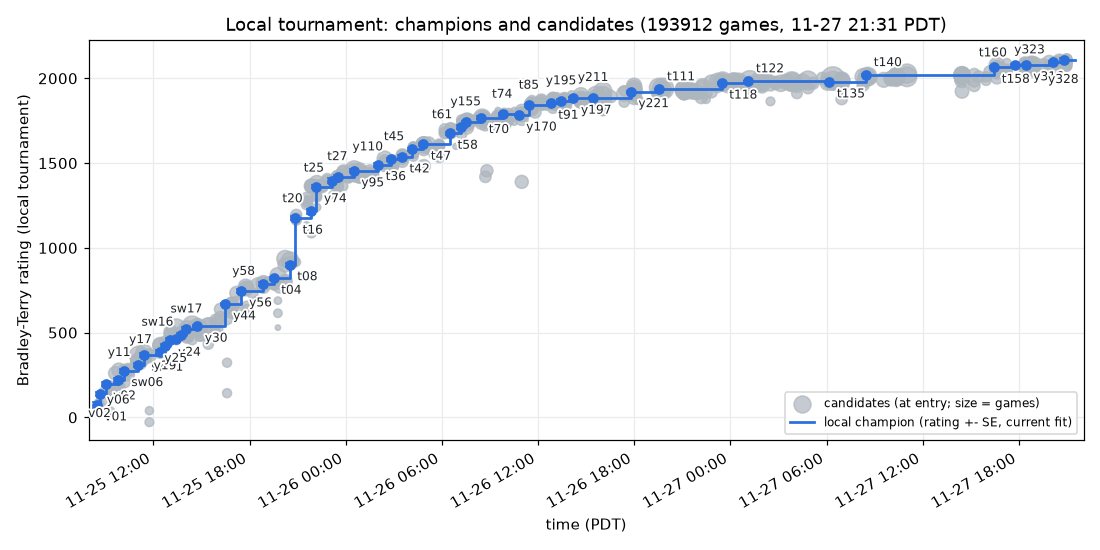
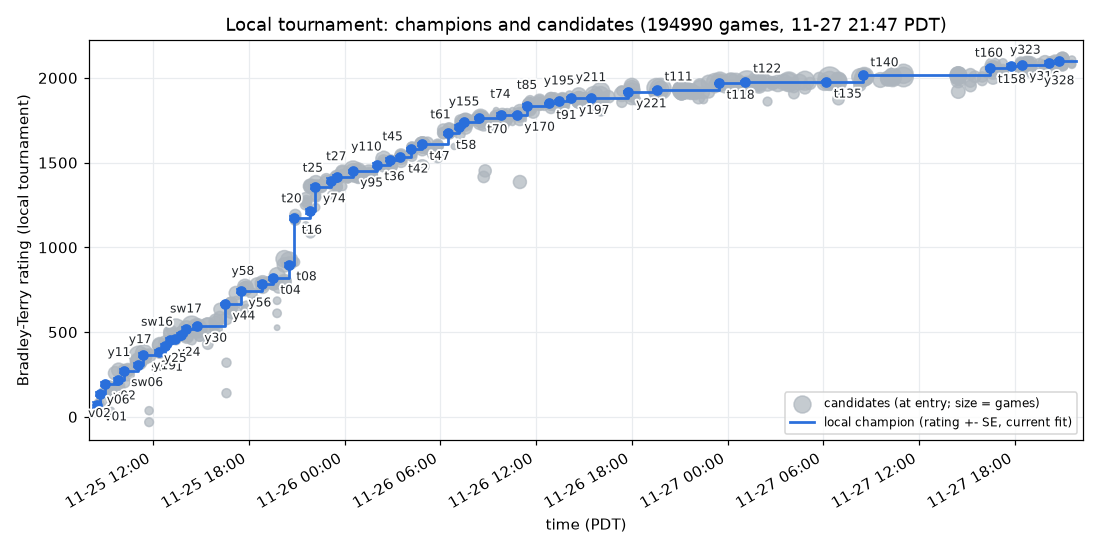
prod: retire y329, y334 (flat after 500+)
Claude-Session: https://claude.ai/code/session_01SzziPSCWtjsjju9cnThDf5

diff --git a/progress/local-elo.md b/progress/local-elo.md
@@ -1,60 +1,60 @@
 # Local tournament Elo
 
-Bradley-Terry ratings of our own bots in the local tournament (`tools/tourney.py`), all 193912 games in one fit as of 2026-11-27 21:33 PDT, so every point is on the same scale; earlier champions are shown at their current rating, and "Gain" is the rating over the champion it replaced. `tools/tourney.py rank` rewrites this table; `tools/tourney.py chart` also redraws the chart.
+Bradley-Terry ratings of our own bots in the local tournament (`tools/tourney.py`), all 194990 games in one fit as of 2026-11-27 21:48 PDT, so every point is on the same scale; earlier champions are shown at their current rating, and "Gain" is the rating over the champion it replaced. `tools/tourney.py rank` rewrites this table; `tools/tourney.py chart` also redraws the chart.
 
 ![local elo](local-elo.png)
 
 | Champion from (PDT) | Bot | Change on base | Submission | Rating +- SE | Gain | Games |
 |---|---|---|---:|---:|---:|---:|
-| 2026-11-25 08:28 | v01 | foundation bot |  | 73 +- 18 |  | 435 |
-| 2026-11-25 08:39 | v02 | nav wall-follow fix + bytecode guards on v01 | #6 | 138 +- 13 | +65 | 801 |
-| 2026-11-25 09:01 | y02 | paint-heavy tower mix + paint towers upgraded first on v02 | #7 | 197 +- 11 | +59 | 1080 |
-| 2026-11-25 09:49 | y06 | 3 opening soldiers instead of 2 on y02 | #35 | 218 +- 13 | +21 | 700 |
-| 2026-11-25 10:09 | sw06 | no moppers before r80; a third of spawns moppers after (field study 1) on y02 | #36 | 276 +- 12 | +79 | 863 |
-| 2026-11-25 11:04 | y11 | mid-game mix 3 moppers per 6 (soldier mopper splasher mopper soldier mopper) on sw06 | #37 | 308 +- 14 | +33 | 655 |
-| 2026-11-25 11:24 | sw11 | at most 1 helper soldier per ruin (more ruins claimed in parallel) on y11 | #38 | 366 +- 11 | +58 | 1159 |
-| 2026-11-25 12:24 | y17 | sw11 + moppers prefer enemies within r2 25 of our towers (sw12) on sw11 | #39 | 385 +- 12 | +18 | 871 |
-| 2026-11-25 12:44 | y19 | sw11 with soldiers joining an occupied ruin only when adjacent (r2<=2) on y17 | #40 | 420 +- 14 | +35 | 678 |
-| 2026-11-25 13:04 | y24 | y17 with mopper defence widened (DEFEND_R2 36 / bonus 80) on y19 | #41 | 454 +- 13 | +35 | 679 |
-| 2026-11-25 13:24 | y25 | y19 (adjacent-only ruin helping) + y17 tower-defending moppers on y24 | #42 | 464 +- 12 | +9 | 898 |
-| 2026-11-25 13:44 | sw16 | y25 + soldier siege: with no ruin and paint>=80 kite a known enemy tower within r2 64 on y25 | #43 | 488 +- 11 | +24 | 976 |
-| 2026-11-25 14:04 | sw17 | y28 (siege from 50 paint r2 100) + splasher siege (towers weigh 40; walk to known tower within r2 100 at paint>=100) on sw16 | #44 | 521 +- 10 | +33 | 1110 |
-| 2026-11-25 14:44 | y30 | y28 with soldier siege from 30 paint within r2 144 (no splasher siege) on sw17 | #45 | 538 +- 7 | +17 | 2377 |
-| 2026-11-25 16:30 | y44 | study 3 tactic 3 (enemy refill policy): return at 50% paint (soldier 100/splasher 100/mopper 40) + end-of-turn top-up from any adjacent ally tower on y30 | #46 | 668 +- 8 | +131 | 2250 |
-| 2026-11-25 17:30 | y56 | study 3 tactic 4 (tower churn): a drained L1 money tower with intact pattern and an ally adjacent disintegrates at >=2000 chips; adjacent robots re-complete it for a fresh 500 paint on y44 | #47 | 746 +- 10 | +77 | 1320 |
-| 2026-11-25 18:50 | y58 | study 3 tactic 2 (early soldiers paint patterns not coverage): exploring soldiers paint no coverage before r50 on y56 | #48 | 787 +- 11 | +42 | 997 |
-| 2026-11-25 19:30 | t04 | t02 (no coverage painting before r80) + t03 (units wait beside drained money towers and repair their pattern so churn fires; study 3 tactics 2 and 4) on y58 | #49 | 820 +- 11 | +33 | 1065 |
-| 2026-11-25 20:30 | t08 | study 4 2.2 (contested ruins): soldiers skip a ruin with enemy paint in its visible 5x5 (bad for 50 rounds) on t04 | #50 | 900 +- 13 | +80 | 775 |
-| 2026-11-25 20:50 | t16 | t12 (t08 + study 4 2.1 spawn freeze 8 rounds in 20 below 1000+cost) + study 4 2.4 money-first: builds money until 8 towers then paint while paint towers < n/5; paint first only if none (all towers known) on t08 | #51 | 1175 +- 12 | +274 | 1213 |
-| 2026-11-25 21:50 | t20 | study 4 2.3: splashers weight enemy towers 30 (was 12) in the splash score on t16 | #52 | 1216 +- 15 | +41 | 587 |
-| 2026-11-25 22:10 | y74 | unit audit (owner prompt #15): splash-grid bug fix (enemy tiles never scored) + moppers stop once enemy paint is in mop reach; built on t16 on t20 | #53 | 1360 +- 10 | +145 | 1255 |
-| 2026-11-25 23:10 | t25 | unit audit + top teams' unit mix (616 S / 662 X / 701 M): after r80 paint towers cycle soldier-splasher-mopper; money towers keep S M X M S M on y74 | #54 | 1397 +- 13 | +36 | 680 |
-| 2026-11-25 23:30 | t27 | top teams' splasher-heavy late mix pushed further: paint towers cycle soldier-splasher-splasher-mopper after r80 on t25 | #55 | 1419 +- 9 | +22 | 1554 |
-| 2026-11-26 00:30 | y95 | upgrade spare 1200 (was 800): chips stay for new towers longer on t27 | #56 | 1454 +- 9 | +35 | 1822 |
-| 2026-11-26 02:01 | t36 | late SRPs (study 4 2.6 / study 3 tactic 7): soldiers without a ruin build SRPs on the x%4==2 y%4==2 lattice from r100 with chips>=1000; splashers avoid repainting SRP secondary tiles on y95 | #57 | 1491 +- 11 | +37 | 977 |
-| 2026-11-26 02:50 | y110 | money towers upgrade only with 2500 chips beyond the cost+spare (was 1000): chips go to new towers and SRPs on t36 | #58 | 1521 +- 10 | +31 | 1260 |
-| 2026-11-26 03:30 | t42 | study 4 3.1 recovery: with every tower known and no money tower left the next ruin is a money tower on y110 | #59 | 1536 +- 10 | +14 | 1332 |
-| 2026-11-26 04:10 | t45 | study 3 tactic 1: after r40 towers spawn only with 1000 chips beyond the unit's cost (no 600-chip window) on t42 | #60 | 1582 +- 10 | +46 | 1226 |
-| 2026-11-26 04:50 | t47 | study 3 tactic 5: a mopper due in the cycle spawns even below the 1000 reserve when an enemy robot is within d2 20 of the tower on t45 | #61 | 1611 +- 7 | +29 | 2398 |
-| 2026-11-26 06:30 | t58 | study 5 2.3: a splasher that has not splashed for 8 rounds (while able to) explores instead of chasing the nearest non-ally tile on t47 | #62 | 1676 +- 11 | +65 | 1087 |
-| 2026-11-26 07:10 | t61 | study 5 2.1 (softened): money towers for builds 1-5; then one more paint tower per 4 towers on t58 | #63 | 1711 +- 11 | +36 | 938 |
-| 2026-11-26 07:30 | y155 | study 5 2.1 tuned: money towers for builds 1-6; then one more paint tower per 4 towers on t61 | #64 | 1742 +- 9 | +31 | 1615 |
-| 2026-11-26 08:27 | t70 | y155 + splashers weight enemy towers 30 (t68) + 2000+ chips makes the next tower a paint tower (y159) on y155 | #65 | 1768 +- 7 | +26 | 2530 |
-| 2026-11-26 09:47 | t74 | moppers weight enemy paint near ruins 40 (study 6 2.1c) on t70 | #66 | 1787 +- 8 | +19 | 2200 |
-| 2026-11-26 10:47 | y170 | soldiers make the next tower a paint tower at 1500+ chips (t63 tuning; was 2000) on t74 | #67 | 1783 +- 7 | -4 | 2823 |
-| 2026-11-26 11:27 | t85 | study 6 2.2 ruin denial from where the soldier stands: a soldier with no ruin paints empty tiles of a ruin the enemy is building; without walking to it on y170 | #68 | 1841 +- 7 | +58 | 2556 |
-| 2026-11-26 12:47 | t91 | study 7 2.5: moppers ignore ruins under enemy towers when weighting ruin paint on t85 | #69 | 1852 +- 5 | +12 | 5663 |
-| 2026-11-26 13:27 | y195 | study 7 2.1a: explore unseen tiles first; up to 16 random draws on t91 | #70 | 1866 +- 9 | +14 | 1349 |
-| 2026-11-26 14:12 | y197 | ruin denial stops at 2 of our tiles (tuning of study 6 2.2) on y195 | #71 | 1882 +- 7 | +16 | 2235 |
-| 2026-11-26 15:27 | y211 | study 7 2.1a tuned: up to 128 random draws for an unseen explore target (was 16) on y197 | #72 | 1886 +- 6 | +3 | 4141 |
-| 2026-11-26 17:47 | y221 | study 8 2.2 (paint the first tower's pattern on the way in; a second soldier on the first ruin) + explore timeout 90; first champion through the confirmation stage (owner #46) on y211 | #73 | 1921 +- 5 | +35 | 6990 |
-| 2026-11-26 19:34 | t111 | splashers attack enemy paint/money towers from a stand-off tile outside their range (study 8 2.4) on y221 | #74 | 1935 +- 4 | +14 | 7551 |
-| 2026-11-26 23:27 | t118 | study 9 2.1b: a soldier on a blocked pattern with no own mopper or splasher in view gives up after 5 turns (was 25); confirmed +71 +-29 in 153 fresh games on t111 | #75 | 1972 +- 4 | +37 | 15801 |
-| 2026-11-27 01:07 | t122 | study 9 2.4: paint-tower dry flags expire after 10 rounds (was 40) and a flagged tower in sight is re-sensed; confirmed +6 +-19 in 378 fresh games; +16 overall on t118 | #76 | 1982 +- 4 | +11 | 18772 |
-| 2026-11-27 06:10 | t135 | study 10 2.6d: a soldier with no other soldier in view skips the 25-paint pattern mark (the top teams never mark); confirmed +9 +-22 in 262 fresh games; +14 overall on t122 | #77 | 1978 +- 5 | -4 | 6458 |
-| 2026-11-27 08:28 | t140 (now r140, verified identical) | study 11 2.1: free single marks (rc.mark on the 5x5 outer ring) replace the 25-paint pattern mark; marks re-read beside the ruin; confirmed +40 +-23 in 251 fresh games; +30 overall on t135 | #78 | 2019 +- 4 | +41 | 16443 |
-| 2026-11-27 16:27 | t158 | study 12 2.2: moppers hit and run (after acting; step off non-ally paint and away from enemy moppers within d2 8 and towers within d2 9); +40 +-24 over r140 in 217 games; first crowning without the confirmation stage (owner #66) on r140 | #79 | 2065 +- 6 | +46 | 3397 |
-| 2026-11-27 17:47 | t160 | t158 + study 12 2.4 n1 (Nav.tileCost counts adjacent allies; the engine's drain rule; y295) + 2.2 m1 (moppers swing at a single robot; t152); +17 +-15 over t158 in 818 games on t158 | #80 | 2076 +- 8 | +11 | 2182 |
-| 2026-11-27 18:25 | y316 | t160 + Nav paint weight 8 (was 6); +34 +-25 over t160 in 224 games on t160 | #81 | 2079 +- 6 | +4 | 3423 |
-| 2026-11-27 20:07 | y323 | y316 + churn wait 2 rounds (was 3; study 13 2.1: waiters hit 0 paint after a median 3 rounds); +36 +-21 over y316 in 306 games on y316 | #82 | 2094 +- 9 | +14 | 1533 |
-| 2026-11-27 20:47 | y328 | y323 + dry flags on money/defence towers last 60 rounds (was 40); +49 +-25 over y323 in 233 games on y323 | #83 | 2108 +- 10 | +15 | 1106 |
+| 2026-11-25 08:28 | v01 | foundation bot |  | 70 +- 18 |  | 435 |
+| 2026-11-25 08:39 | v02 | nav wall-follow fix + bytecode guards on v01 | #6 | 135 +- 13 | +65 | 801 |
+| 2026-11-25 09:01 | y02 | paint-heavy tower mix + paint towers upgraded first on v02 | #7 | 194 +- 11 | +59 | 1080 |
+| 2026-11-25 09:49 | y06 | 3 opening soldiers instead of 2 on y02 | #35 | 215 +- 13 | +21 | 700 |
+| 2026-11-25 10:09 | sw06 | no moppers before r80; a third of spawns moppers after (field study 1) on y02 | #36 | 272 +- 12 | +79 | 863 |
+| 2026-11-25 11:04 | y11 | mid-game mix 3 moppers per 6 (soldier mopper splasher mopper soldier mopper) on sw06 | #37 | 305 +- 14 | +33 | 655 |
+| 2026-11-25 11:24 | sw11 | at most 1 helper soldier per ruin (more ruins claimed in parallel) on y11 | #38 | 363 +- 11 | +58 | 1159 |
+| 2026-11-25 12:24 | y17 | sw11 + moppers prefer enemies within r2 25 of our towers (sw12) on sw11 | #39 | 381 +- 12 | +18 | 871 |
+| 2026-11-25 12:44 | y19 | sw11 with soldiers joining an occupied ruin only when adjacent (r2<=2) on y17 | #40 | 416 +- 14 | +35 | 678 |
+| 2026-11-25 13:04 | y24 | y17 with mopper defence widened (DEFEND_R2 36 / bonus 80) on y19 | #41 | 451 +- 13 | +35 | 679 |
+| 2026-11-25 13:24 | y25 | y19 (adjacent-only ruin helping) + y17 tower-defending moppers on y24 | #42 | 460 +- 12 | +9 | 898 |
+| 2026-11-25 13:44 | sw16 | y25 + soldier siege: with no ruin and paint>=80 kite a known enemy tower within r2 64 on y25 | #43 | 485 +- 11 | +24 | 976 |
+| 2026-11-25 14:04 | sw17 | y28 (siege from 50 paint r2 100) + splasher siege (towers weigh 40; walk to known tower within r2 100 at paint>=100) on sw16 | #44 | 518 +- 10 | +33 | 1110 |
+| 2026-11-25 14:44 | y30 | y28 with soldier siege from 30 paint within r2 144 (no splasher siege) on sw17 | #45 | 534 +- 7 | +17 | 2377 |
+| 2026-11-25 16:30 | y44 | study 3 tactic 3 (enemy refill policy): return at 50% paint (soldier 100/splasher 100/mopper 40) + end-of-turn top-up from any adjacent ally tower on y30 | #46 | 665 +- 8 | +131 | 2250 |
+| 2026-11-25 17:30 | y56 | study 3 tactic 4 (tower churn): a drained L1 money tower with intact pattern and an ally adjacent disintegrates at >=2000 chips; adjacent robots re-complete it for a fresh 500 paint on y44 | #47 | 742 +- 10 | +77 | 1320 |
+| 2026-11-25 18:50 | y58 | study 3 tactic 2 (early soldiers paint patterns not coverage): exploring soldiers paint no coverage before r50 on y56 | #48 | 784 +- 11 | +42 | 997 |
+| 2026-11-25 19:30 | t04 | t02 (no coverage painting before r80) + t03 (units wait beside drained money towers and repair their pattern so churn fires; study 3 tactics 2 and 4) on y58 | #49 | 817 +- 11 | +33 | 1065 |
+| 2026-11-25 20:30 | t08 | study 4 2.2 (contested ruins): soldiers skip a ruin with enemy paint in its visible 5x5 (bad for 50 rounds) on t04 | #50 | 897 +- 13 | +80 | 775 |
+| 2026-11-25 20:50 | t16 | t12 (t08 + study 4 2.1 spawn freeze 8 rounds in 20 below 1000+cost) + study 4 2.4 money-first: builds money until 8 towers then paint while paint towers < n/5; paint first only if none (all towers known) on t08 | #51 | 1171 +- 12 | +274 | 1213 |
+| 2026-11-25 21:50 | t20 | study 4 2.3: splashers weight enemy towers 30 (was 12) in the splash score on t16 | #52 | 1213 +- 15 | +41 | 587 |
+| 2026-11-25 22:10 | y74 | unit audit (owner prompt #15): splash-grid bug fix (enemy tiles never scored) + moppers stop once enemy paint is in mop reach; built on t16 on t20 | #53 | 1357 +- 10 | +145 | 1255 |
+| 2026-11-25 23:10 | t25 | unit audit + top teams' unit mix (616 S / 662 X / 701 M): after r80 paint towers cycle soldier-splasher-mopper; money towers keep S M X M S M on y74 | #54 | 1393 +- 13 | +36 | 680 |
+| 2026-11-25 23:30 | t27 | top teams' splasher-heavy late mix pushed further: paint towers cycle soldier-splasher-splasher-mopper after r80 on t25 | #55 | 1416 +- 9 | +22 | 1554 |
+| 2026-11-26 00:30 | y95 | upgrade spare 1200 (was 800): chips stay for new towers longer on t27 | #56 | 1451 +- 9 | +35 | 1822 |
+| 2026-11-26 02:01 | t36 | late SRPs (study 4 2.6 / study 3 tactic 7): soldiers without a ruin build SRPs on the x%4==2 y%4==2 lattice from r100 with chips>=1000; splashers avoid repainting SRP secondary tiles on y95 | #57 | 1488 +- 11 | +37 | 977 |
+| 2026-11-26 02:50 | y110 | money towers upgrade only with 2500 chips beyond the cost+spare (was 1000): chips go to new towers and SRPs on t36 | #58 | 1518 +- 10 | +31 | 1260 |
+| 2026-11-26 03:30 | t42 | study 4 3.1 recovery: with every tower known and no money tower left the next ruin is a money tower on y110 | #59 | 1532 +- 10 | +14 | 1332 |
+| 2026-11-26 04:10 | t45 | study 3 tactic 1: after r40 towers spawn only with 1000 chips beyond the unit's cost (no 600-chip window) on t42 | #60 | 1578 +- 10 | +46 | 1226 |
+| 2026-11-26 04:50 | t47 | study 3 tactic 5: a mopper due in the cycle spawns even below the 1000 reserve when an enemy robot is within d2 20 of the tower on t45 | #61 | 1607 +- 7 | +29 | 2398 |
+| 2026-11-26 06:30 | t58 | study 5 2.3: a splasher that has not splashed for 8 rounds (while able to) explores instead of chasing the nearest non-ally tile on t47 | #62 | 1672 +- 11 | +65 | 1087 |
+| 2026-11-26 07:10 | t61 | study 5 2.1 (softened): money towers for builds 1-5; then one more paint tower per 4 towers on t58 | #63 | 1708 +- 11 | +36 | 938 |
+| 2026-11-26 07:30 | y155 | study 5 2.1 tuned: money towers for builds 1-6; then one more paint tower per 4 towers on t61 | #64 | 1739 +- 9 | +31 | 1615 |
+| 2026-11-26 08:27 | t70 | y155 + splashers weight enemy towers 30 (t68) + 2000+ chips makes the next tower a paint tower (y159) on y155 | #65 | 1765 +- 7 | +26 | 2530 |
+| 2026-11-26 09:47 | t74 | moppers weight enemy paint near ruins 40 (study 6 2.1c) on t70 | #66 | 1784 +- 8 | +19 | 2200 |
+| 2026-11-26 10:47 | y170 | soldiers make the next tower a paint tower at 1500+ chips (t63 tuning; was 2000) on t74 | #67 | 1779 +- 7 | -4 | 2823 |
+| 2026-11-26 11:27 | t85 | study 6 2.2 ruin denial from where the soldier stands: a soldier with no ruin paints empty tiles of a ruin the enemy is building; without walking to it on y170 | #68 | 1837 +- 7 | +58 | 2556 |
+| 2026-11-26 12:47 | t91 | study 7 2.5: moppers ignore ruins under enemy towers when weighting ruin paint on t85 | #69 | 1849 +- 5 | +12 | 5663 |
+| 2026-11-26 13:27 | y195 | study 7 2.1a: explore unseen tiles first; up to 16 random draws on t91 | #70 | 1863 +- 9 | +14 | 1349 |
+| 2026-11-26 14:12 | y197 | ruin denial stops at 2 of our tiles (tuning of study 6 2.2) on y195 | #71 | 1879 +- 7 | +16 | 2235 |
+| 2026-11-26 15:27 | y211 | study 7 2.1a tuned: up to 128 random draws for an unseen explore target (was 16) on y197 | #72 | 1882 +- 6 | +3 | 4141 |
+| 2026-11-26 17:47 | y221 | study 8 2.2 (paint the first tower's pattern on the way in; a second soldier on the first ruin) + explore timeout 90; first champion through the confirmation stage (owner #46) on y211 | #73 | 1917 +- 5 | +35 | 6990 |
+| 2026-11-26 19:34 | t111 | splashers attack enemy paint/money towers from a stand-off tile outside their range (study 8 2.4) on y221 | #74 | 1931 +- 4 | +14 | 7551 |
+| 2026-11-26 23:27 | t118 | study 9 2.1b: a soldier on a blocked pattern with no own mopper or splasher in view gives up after 5 turns (was 25); confirmed +71 +-29 in 153 fresh games on t111 | #75 | 1968 +- 4 | +37 | 15801 |
+| 2026-11-27 01:07 | t122 | study 9 2.4: paint-tower dry flags expire after 10 rounds (was 40) and a flagged tower in sight is re-sensed; confirmed +6 +-19 in 378 fresh games; +16 overall on t118 | #76 | 1979 +- 4 | +11 | 18772 |
+| 2026-11-27 06:10 | t135 | study 10 2.6d: a soldier with no other soldier in view skips the 25-paint pattern mark (the top teams never mark); confirmed +9 +-22 in 262 fresh games; +14 overall on t122 | #77 | 1975 +- 5 | -4 | 6458 |
+| 2026-11-27 08:28 | t140 (now r140, verified identical) | study 11 2.1: free single marks (rc.mark on the 5x5 outer ring) replace the 25-paint pattern mark; marks re-read beside the ruin; confirmed +40 +-23 in 251 fresh games; +30 overall on t135 | #78 | 2015 +- 4 | +41 | 16443 |
+| 2026-11-27 16:27 | t158 | study 12 2.2: moppers hit and run (after acting; step off non-ally paint and away from enemy moppers within d2 8 and towers within d2 9); +40 +-24 over r140 in 217 games; first crowning without the confirmation stage (owner #66) on r140 | #79 | 2061 +- 6 | +45 | 3397 |
+| 2026-11-27 17:47 | t160 | t158 + study 12 2.4 n1 (Nav.tileCost counts adjacent allies; the engine's drain rule; y295) + 2.2 m1 (moppers swing at a single robot; t152); +17 +-15 over t158 in 818 games on t158 | #80 | 2072 +- 8 | +11 | 2314 |
+| 2026-11-27 18:25 | y316 | t160 + Nav paint weight 8 (was 6); +34 +-25 over t160 in 224 games on t160 | #81 | 2079 +- 6 | +7 | 3527 |
+| 2026-11-27 20:07 | y323 | y316 + churn wait 2 rounds (was 3; study 13 2.1: waiters hit 0 paint after a median 3 rounds); +36 +-21 over y316 in 306 games on y316 | #82 | 2089 +- 9 | +10 | 1533 |
+| 2026-11-27 20:47 | y328 | y323 + dry flags on money/defence towers last 60 rounds (was 40); +49 +-25 over y323 in 233 games on y323 | #83 | 2098 +- 9 | +9 | 1534 |
